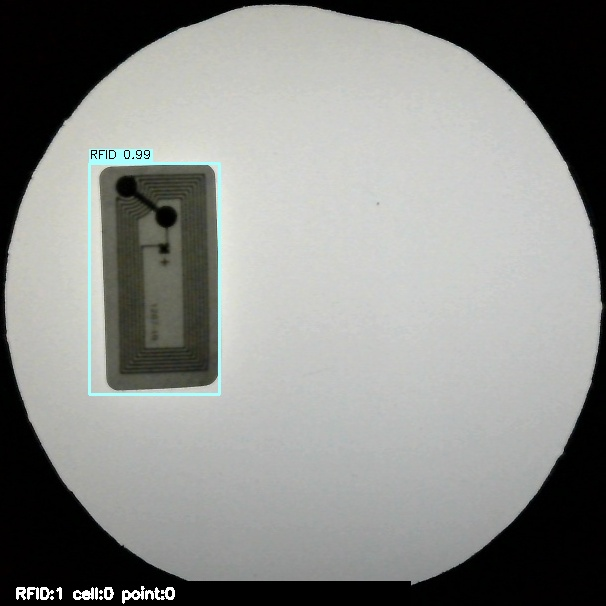
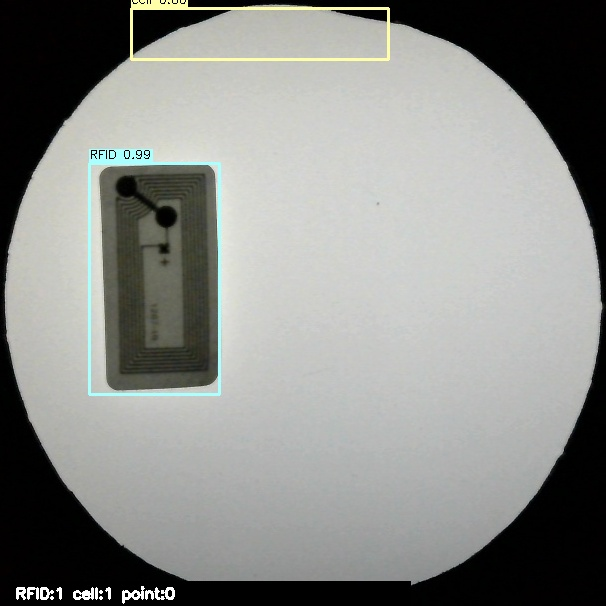
update_2

Changed region(s): [[0.2079, 0.0, 0.6535, 0.1188]]

diff --git a/A3.py b/A3.py
@@ -31,15 +31,15 @@ FILTER_CONFIG = {
     # 注意：YOLO 模型層使用最低值，然後在程式層進行類別特定的過濾
     'first_confidence_by_class': {
         # 提高類別特定的信心度門檻，降低低分框殘留
-        'RFID': 0.85,   # 原 0.049 → 0.55（保持高信心）
-        'cell': 0.84,   # 原 0.135 → 0.18
+        'RFID': 0.7,   # 原 0.049 → 0.55（保持高信心）
+        'cell': 0.45,   # 原 0.135 → 0.18
         'point': 0.67       # 原 0.0047 → 0.10
     },
     # YOLO 模型層使用最低的信心度值（確保所有類別都能通過）
     'yolo_conf_threshold': 0.05,  # 原 0.001 → 0.05，先在模型層砍掉極低分框
     # NMS（非極大值抑制）參數：過濾重疊的檢測框
     'yolo_iou_threshold': 0.45,   # YOLO 內建 NMS IoU 閾值（只在同類別內過濾）
-    'cross_class_iou_threshold': 0.5,  # 跨類別 NMS IoU 閾值（0.1 太低會過度過濾，正常範圍 0.5-0.6）
+    'cross_class_iou_threshold': 0.3,  # 跨類別 NMS IoU 閾值（0.1 太低會過度過濾，正常範圍 0.5-0.6）
     
     # 面積過濾
     'min_area_by_class': {

diff --git a/train_DB.py b/train_DB.py
@@ -95,6 +95,9 @@ IMAGE_EXTENSIONS = ['*.jpg', '*.jpeg', '*.png', '*.JPG', '*.JPEG', '*.PNG']
 
 def print_train_config():
     """顯示訓練與資料增強設定"""
+    print("\n訓練設定:")
+    for k, v in TRAIN_CONFIG.items():
+        print(f"  {k}: {v}")
 
     print("\n預處理輸出路徑:")
     print(f"  資料夾: {PREPROCESSED_FOLDER}")
